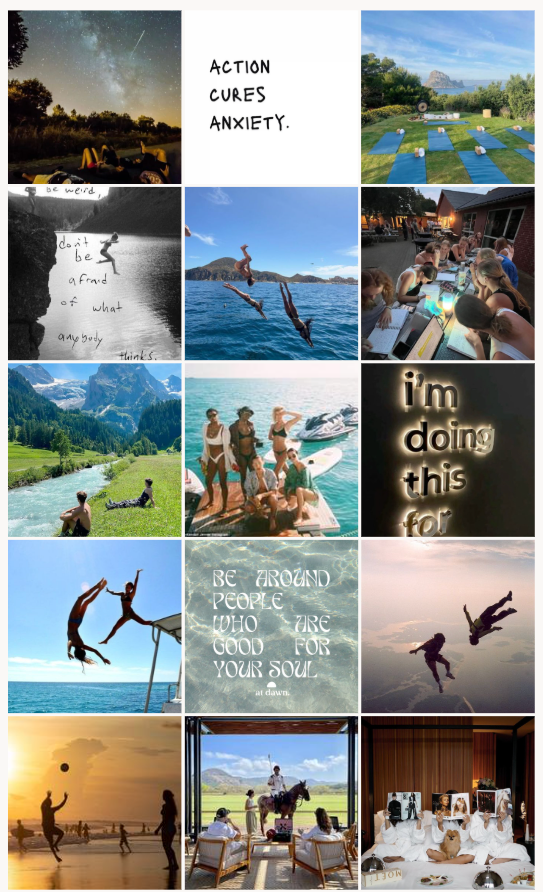
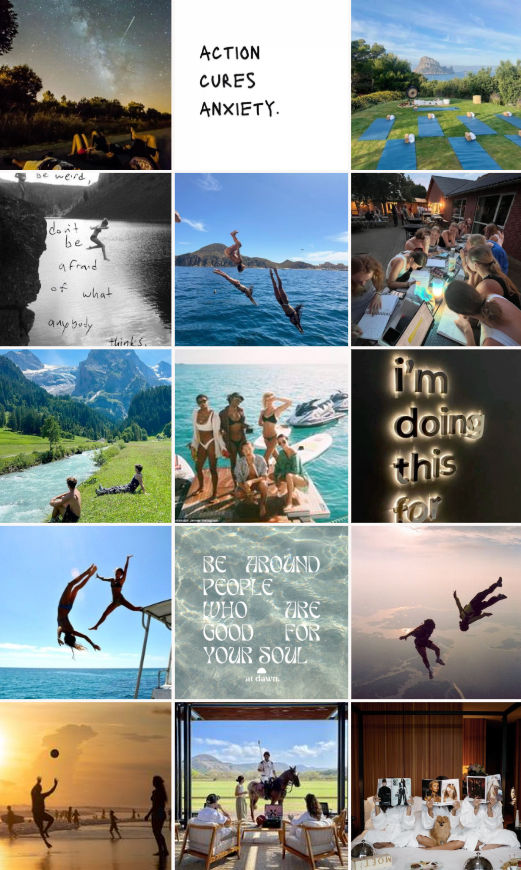
updated the background image

diff --git a/lib/main.dart b/lib/main.dart
@@ -2,7 +2,6 @@ import 'package:flutter/material.dart';
 import 'package:get/route_manager.dart';
 import 'package:get_storage/get_storage.dart';
 import 'package:mementum/modules/splash/splash_screen.dart';
-import 'package:mementum/modules/unlock_momentum/unlock_momentum_view.dart';
 import 'package:mementum/routes/app_routes.dart';
 
 void main() async {
@@ -18,7 +17,6 @@ class MyApp extends StatelessWidget {
     return GetMaterialApp(
       debugShowCheckedModeBanner: false,
       home: SplashScreen(),
-      //home: SubscriptionView(),
       getPages: AppRoutes.pages,
     );
   }
